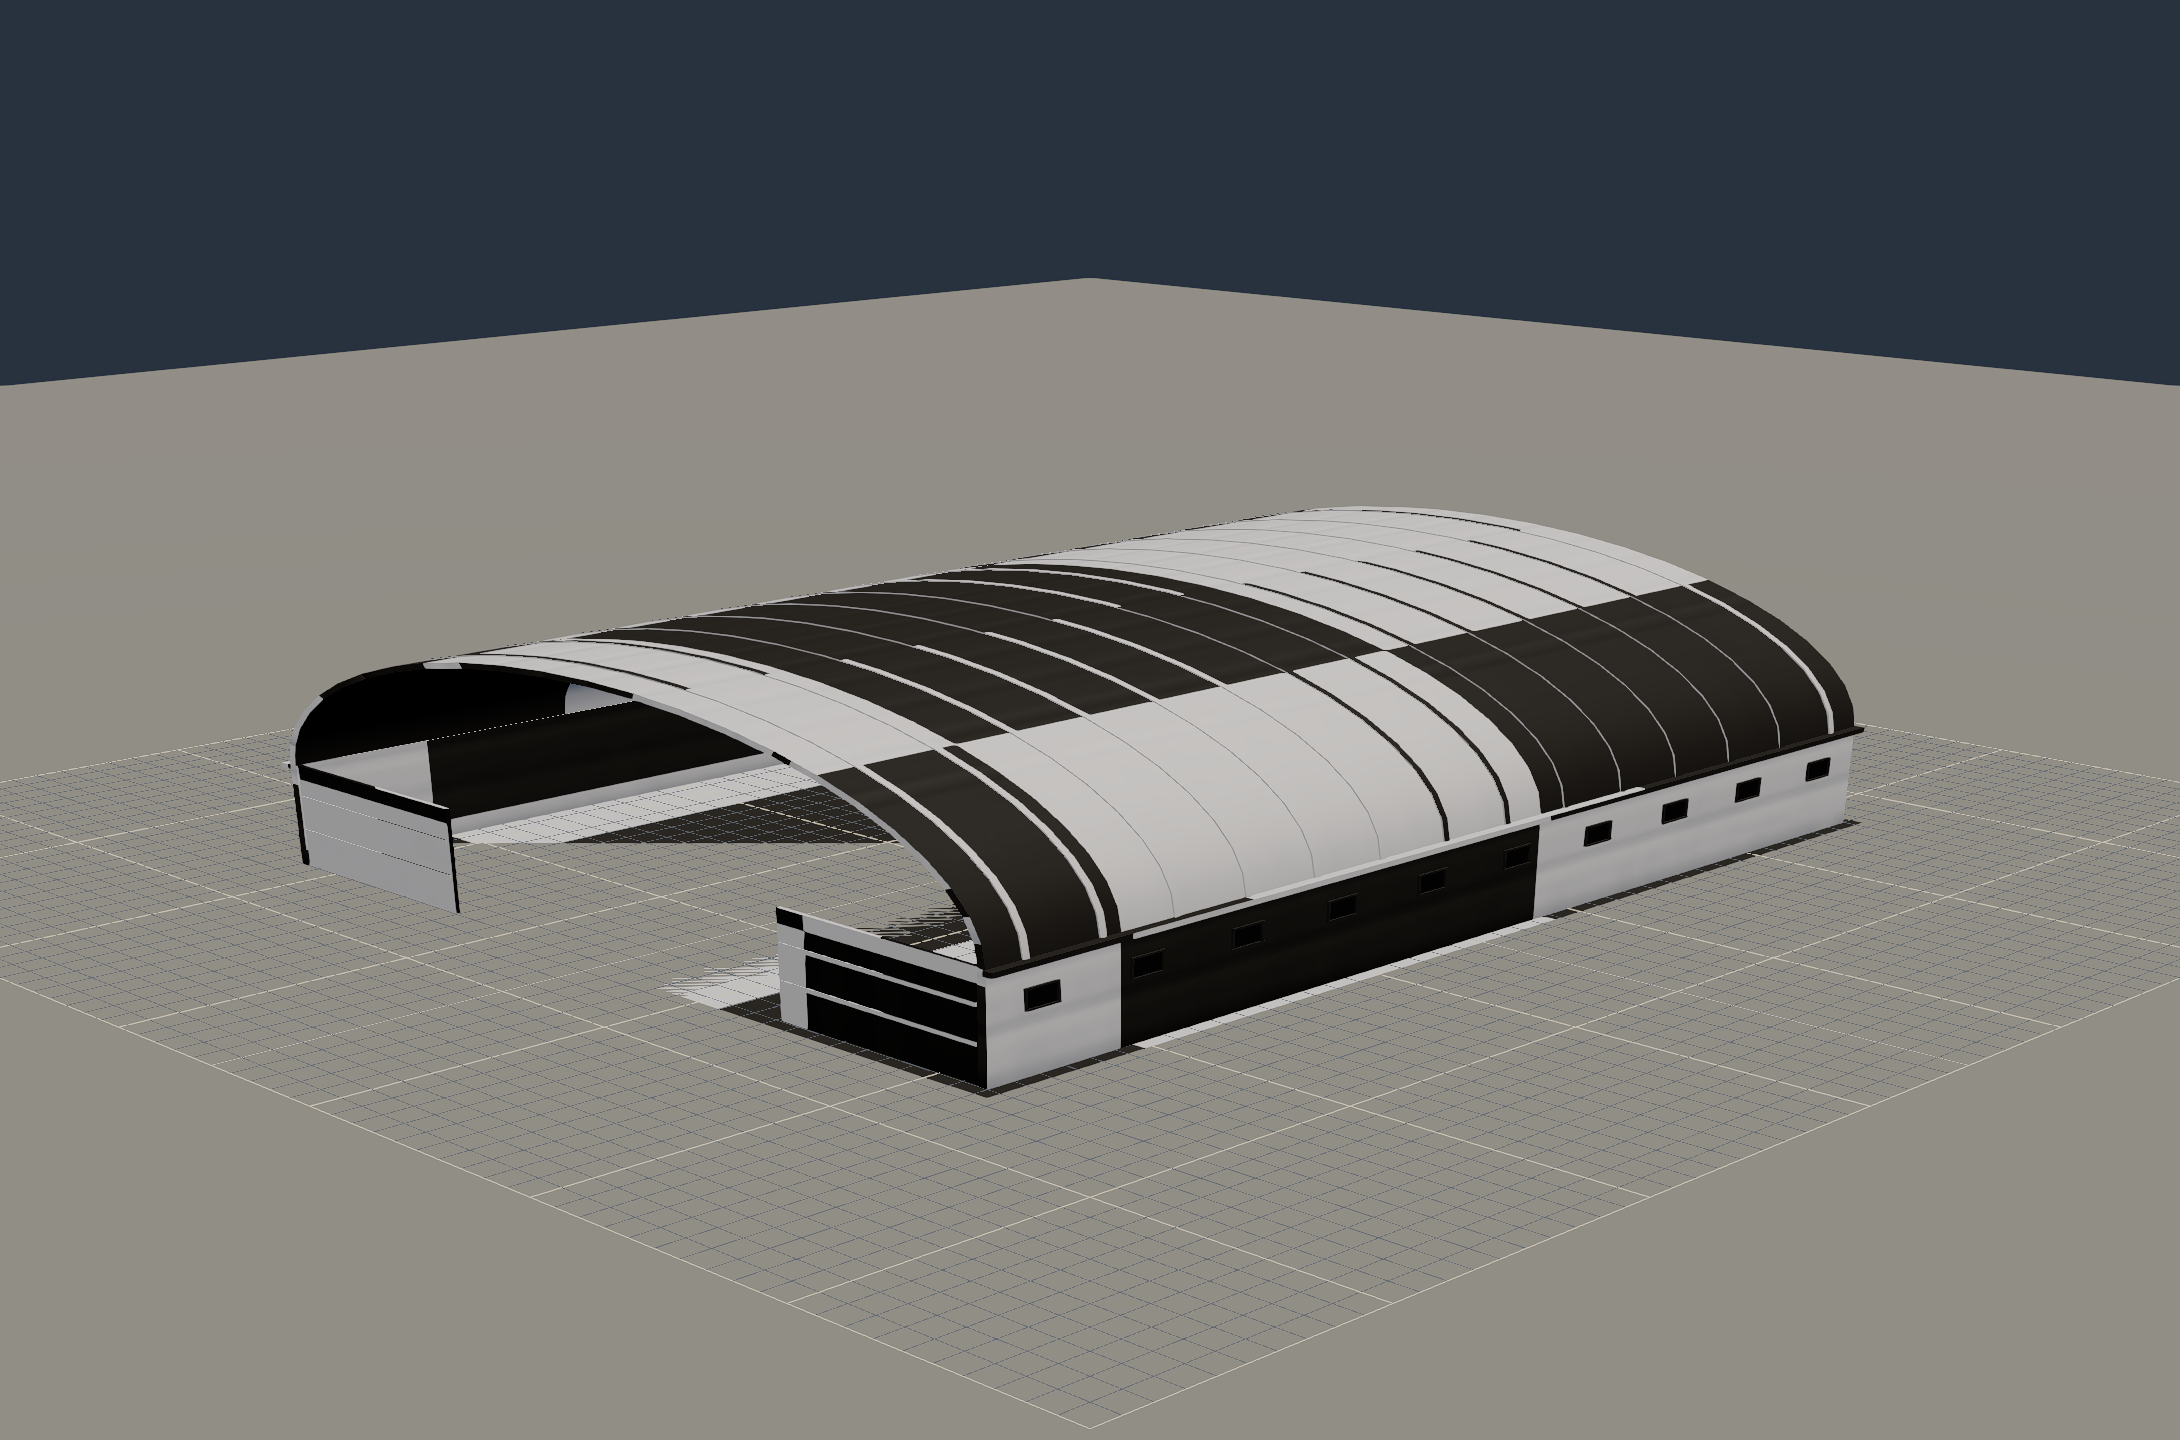
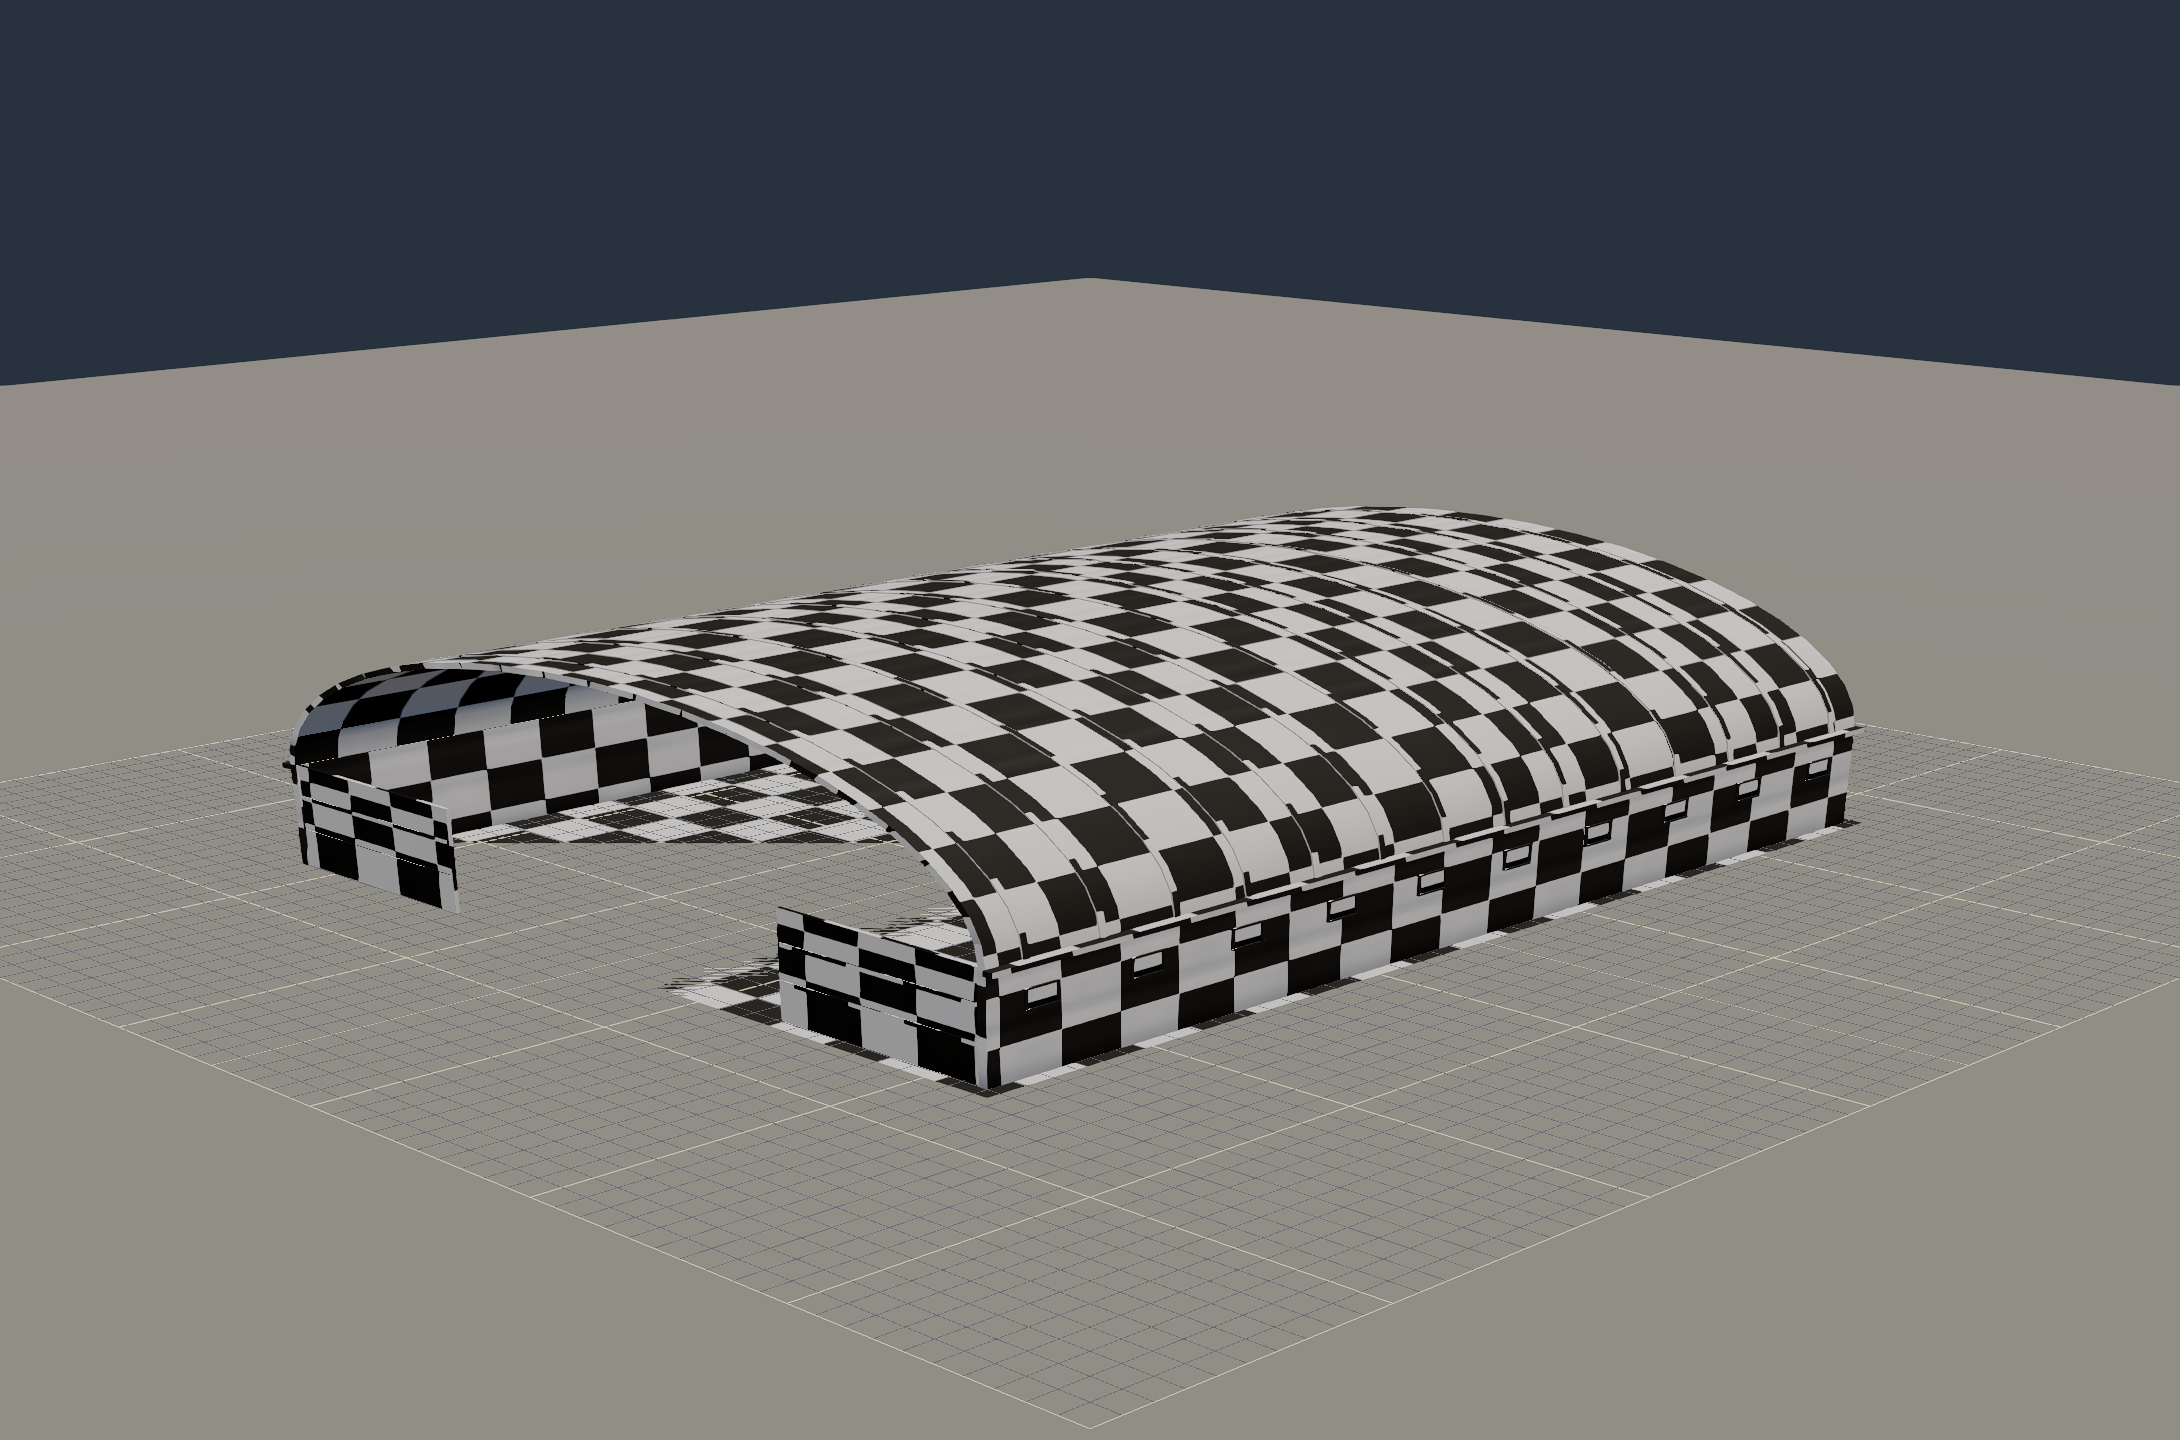
DP0: the Hangar's debug views toggle in any order; the checker tiles 8x per atlas
Wireframe, checker and unlit each layered over the others one toggle at a
time, so wireframe on, checker on, wireframe off, checker off left the
cached originals wireframe, and unlit on, checker on, unlit off, checker off
disposed a shared original. applyDebugViews now unwinds to the originals,
sets their wireframe, and re-layers checker then unlit on every change.
The checker repeats 8x (64 squares per atlas span, mipmapped), so UV
stretch shows; the two checker captures are retaken.

Changed region(s): [[0.1248, 0.3438, 0.8734, 0.75]]

diff --git a/src/render/hangar/stage.ts b/src/render/hangar/stage.ts
@@ -1,5 +1,5 @@
 // src/render/hangar/stage.ts
-import { AxesHelper, Box3, Color, DataTexture, GridHelper, Group, LineBasicMaterial, Mesh, MeshBasicMaterial, MeshStandardMaterial, PerspectiveCamera, PlaneGeometry, Quaternion, Scene, SRGBColorSpace, Sphere, Vector3, type Object3D } from 'three'
+import { AxesHelper, Box3, Color, DataTexture, GridHelper, Group, LinearMipmapLinearFilter, LineBasicMaterial, Mesh, MeshBasicMaterial, MeshStandardMaterial, PerspectiveCamera, PlaneGeometry, Quaternion, RepeatWrapping, Scene, SRGBColorSpace, Sphere, Vector3, type Object3D } from 'three'
 import type { WebGPURenderer } from 'three/webgpu'
 import { OrbitControls } from 'three/addons/controls/OrbitControls.js'
 import { applySun, createLighting, SUN_DIRECTION } from '../scene/lighting.js'
@@ -58,8 +58,12 @@ export function applyUnlit(root: Object3D, on: boolean): void {
   })
 }
 
+/** Checker tiles across UV [0, 1] on each axis; each tile is 8 x 8 squares, so 64 squares span
+ *  an atlas. One tile per atlas gave about one square per patch on the Ki-84's 88-patch atlas,
+ *  too coarse to show stretch (DP0 Task 11 review, 2026-09-28); 8 is by eye. */
+export const CHECKER_REPEAT = 8
 let checker: DataTexture | null = null
-/** 8 x 8 squares, black and white, repeating once over UV [0, 1]: one per page, shared. */
+/** 8 x 8 squares, black and white, tiled CHECKER_REPEAT times over UV [0, 1]: one per page, shared. */
 function checkerTexture(): DataTexture {
   if (checker) return checker
   const n = 256, cell = 32, data = new Uint8Array(n * n * 4)
@@ -69,6 +73,11 @@ function checkerTexture(): DataTexture {
   }
   checker = new DataTexture(data, n, n)
   checker.colorSpace = SRGBColorSpace
+  checker.wrapS = checker.wrapT = RepeatWrapping
+  checker.repeat.set(CHECKER_REPEAT, CHECKER_REPEAT)
+  // Mipmapped, so 64 squares over a distant model gray out instead of shimmering.
+  checker.generateMipmaps = true
+  checker.minFilter = LinearMipmapLinearFilter
   checker.needsUpdate = true
   return checker
 }
@@ -96,6 +105,22 @@ export function applyChecker(root: Object3D, on: boolean): void {
       checkered.delete(o)
     }
   })
+}
+
+export interface DebugViews { wireframe: boolean; checker: boolean; unlit: boolean }
+/** The three debug views on `root`, set as a whole. Checker and unlit each stash the materials
+ *  under them and wireframe edits whatever is on top, so toggling them one at a time is
+ *  order-dependent: wireframe on, checker on, wireframe off, checker off left the cached
+ *  originals wireframe while the box was unticked, and unlit on, checker on, unlit off, checker
+ *  off restored a disposed stand-in (DP0 Task 11 review). So every change unwinds to the
+ *  originals, sets their wireframe, and re-layers checker then unlit in one fixed order. */
+export function applyDebugViews(root: Object3D, v: DebugViews): void {
+  applyUnlit(root, false)
+  applyChecker(root, false)
+  applyWireframe(root, v.wireframe) // on the shared originals
+  applyChecker(root, v.checker) // its clones inherit wireframe
+  applyUnlit(root, v.unlit)
+  applyWireframe(root, v.wireframe) // the unlit stand-ins do not
 }
 
 /** Pivot gizmos (spec §8): an axes helper at each articulated node's origin,
@@ -190,6 +215,8 @@ export function createStage(renderer: WebGPURenderer, canvas: HTMLCanvasElement,
   let radius = 10
   let wireframe = false
   let checkerOn = false
+  let unlitOn = false
+  const views = (): DebugViews => ({ wireframe, checker: checkerOn, unlit: unlitOn })
   let gizmos: Group | null = null
   let gizmoNodes: readonly Object3D[] = []
   const setGizmos = (nodes: readonly Object3D[] | null): void => {
@@ -235,20 +262,18 @@ export function createStage(renderer: WebGPURenderer, canvas: HTMLCanvasElement,
     show(model, kind): void {
       if (current) {
         // Off before it goes: its materials are shared with the cached source.
-        applyWireframe(current, false)
-        applyChecker(current, false)
-        applyUnlit(current, false)
+        applyDebugViews(current, { wireframe: false, checker: false, unlit: false })
         holder.remove(current)
       }
       setGizmos(null)
       current = model
+      unlitOn = false // show() relights
       if (model === null) {
         rebuildGround(null, 20)
         return
       }
       holder.add(model)
-      applyWireframe(model, wireframe)
-      applyChecker(model, checkerOn)
+      applyDebugViews(model, views())
       const box = new Box3().setFromObject(model)
       const sphere = box.getBoundingSphere(new Sphere())
       radius = Math.max(1, sphere.radius)
@@ -271,15 +296,16 @@ export function createStage(renderer: WebGPURenderer, canvas: HTMLCanvasElement,
       if (gizmos) gizmos.visible = visible
     },
     setUnlit(on): void {
-      if (current) applyUnlit(current, on)
+      unlitOn = on
+      if (current) applyDebugViews(current, views())
     },
     setWireframe(on): void {
       wireframe = on
-      if (current) applyWireframe(current, on)
+      if (current) applyDebugViews(current, views())
     },
     setChecker(on): void {
       checkerOn = on
-      if (current) applyChecker(current, on)
+      if (current) applyDebugViews(current, views())
     },
     setGizmos,
     setAutoRotate(on): void { controls.autoRotate = on },

diff --git a/tests/render/hangar/stage.test.ts b/tests/render/hangar/stage.test.ts
@@ -1,6 +1,6 @@
 import { describe, expect, it } from 'vitest'
-import { AxesHelper, BoxGeometry, Color, DataTexture, DoubleSide, Group, Mesh, MeshBasicMaterial, MeshStandardMaterial, Object3D } from 'three'
-import { applyChecker, applyUnlit, applyWireframe, createGizmos, syncGizmos } from '../../../src/render/hangar/stage.js'
+import { AxesHelper, BoxGeometry, Color, DataTexture, DoubleSide, Group, Mesh, MeshBasicMaterial, MeshStandardMaterial, Object3D, RepeatWrapping } from 'three'
+import { applyChecker, applyDebugViews, applyUnlit, applyWireframe, CHECKER_REPEAT, createGizmos, syncGizmos, type DebugViews } from '../../../src/render/hangar/stage.js'
 
 describe('applyWireframe', () => {
   it('sets and clears every mesh material, arrays included, because clones share them', () => {
@@ -67,6 +67,68 @@ describe('applyChecker (DP0: the UV checker, spec §9)', () => {
     applyChecker(root, false)
     expect(a.material).toBe(lit)
     expect(b.material).toBe(lit)
+  })
+})
+
+describe('applyDebugViews (DP0 Task 11 review: the views toggle in any order)', () => {
+  // The stage's setters each flip one flag and call applyDebugViews with all three.
+  const bench = () => {
+    const lit = new MeshStandardMaterial({ map: new DataTexture(new Uint8Array(4), 1, 1) })
+    const mesh = new Mesh(new BoxGeometry(), lit)
+    const root = new Group(); root.add(mesh)
+    const v: DebugViews = { wireframe: false, checker: false, unlit: false }
+    const set = (k: keyof DebugViews, on: boolean): void => { v[k] = on; applyDebugViews(root, v) }
+    return { lit, mesh, set }
+  }
+  const shown = (mesh: Mesh): MeshStandardMaterial | MeshBasicMaterial => mesh.material as MeshStandardMaterial
+
+  it('wireframe on, checker on, wireframe off, checker off: the shared original ends solid', () => {
+    const { lit, mesh, set } = bench()
+    set('wireframe', true); set('checker', true)
+    expect(shown(mesh).wireframe).toBe(true) // the checker clone keeps wireframe
+    set('wireframe', false)
+    expect([shown(mesh).wireframe, lit.wireframe]).toEqual([false, false])
+    set('checker', false)
+    expect(mesh.material).toBe(lit)
+    expect(lit.wireframe).toBe(false)
+  })
+
+  it('checker on, wireframe on, checker off: wireframe survives the checker; then off, the original ends solid', () => {
+    const { lit, mesh, set } = bench()
+    set('checker', true); set('wireframe', true)
+    expect(shown(mesh).wireframe).toBe(true)
+    set('checker', false)
+    expect(mesh.material).toBe(lit)
+    expect(lit.wireframe).toBe(true) // not lost
+    set('checker', true)
+    expect(shown(mesh).wireframe).toBe(true)
+    set('wireframe', false); set('checker', false)
+    expect(lit.wireframe).toBe(false)
+  })
+
+  it('unlit on, checker on, unlit off, checker off: restores the live original, never disposes it', () => {
+    const { lit, mesh, set } = bench()
+    let disposed = 0
+    lit.addEventListener('dispose', () => { disposed++ })
+    set('unlit', true); set('checker', true)
+    const u = shown(mesh) as MeshBasicMaterial
+    expect(u).toBeInstanceOf(MeshBasicMaterial)
+    expect(u.map).not.toBe(lit.map) // unlit over the checker shows the checker
+    set('unlit', false)
+    expect(shown(mesh)).toBeInstanceOf(MeshStandardMaterial)
+    expect(shown(mesh)).not.toBe(lit) // the checker clone, lit
+    set('checker', false)
+    expect(mesh.material).toBe(lit)
+    expect(disposed).toBe(0)
+  })
+
+  it('the checker tiles CHECKER_REPEAT times per UV unit, wrapping', () => {
+    const { mesh, set } = bench()
+    set('checker', true)
+    const map = shown(mesh).map!
+    expect(map.repeat.toArray()).toEqual([CHECKER_REPEAT, CHECKER_REPEAT])
+    expect([map.wrapS, map.wrapT]).toEqual([RepeatWrapping, RepeatWrapping])
+    expect(CHECKER_REPEAT).toBeGreaterThanOrEqual(4)
   })
 })
 
